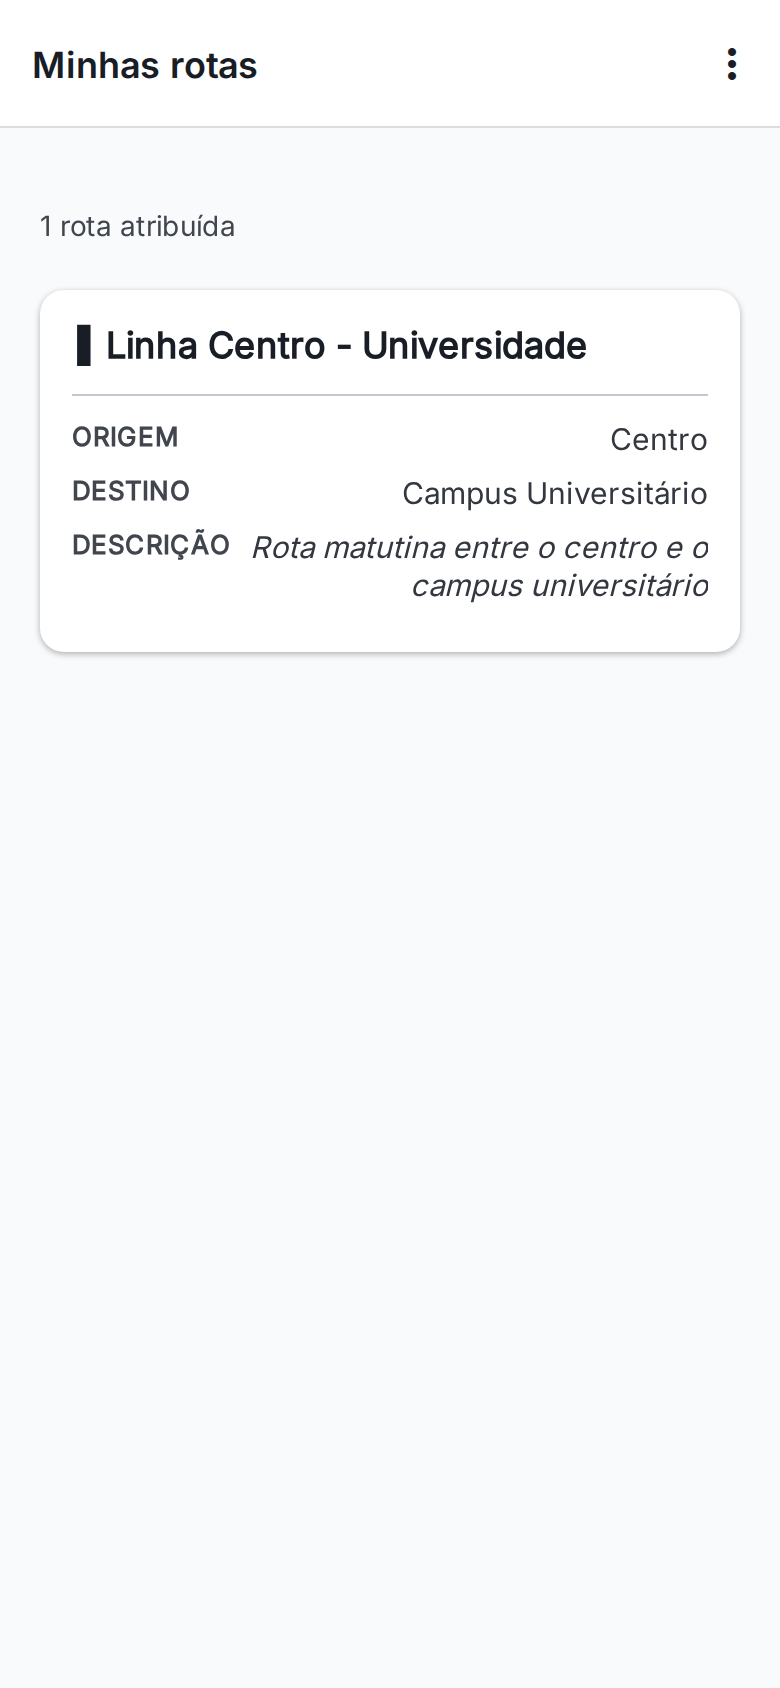
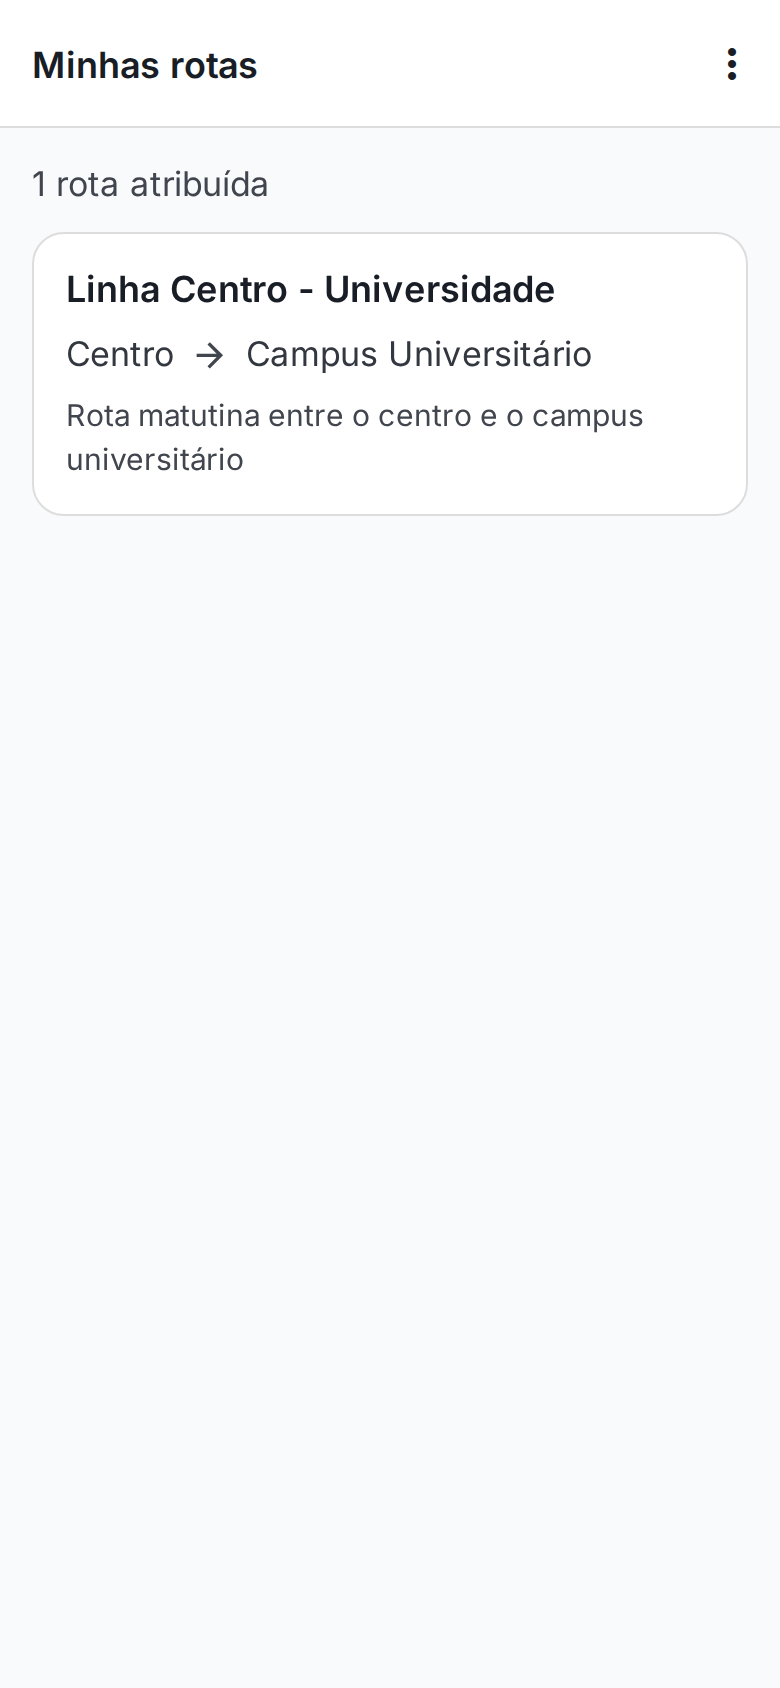
docs(ux): add the routes and admin after captures (story 6.13)
Claude-Session: https://claude.ai/code/session_01Uvx71kYjf8eZo6b4iqQirx

Changed region(s): [[0.0308, 0.0924, 0.9538, 0.3697], [0.0308, 0.1848, 0.0615, 0.3081]]

diff --git a/_bmad-output/planning-artifacts/ux-designs/ux-pureurban-2026-09-26/antes-depois.md b/_bmad-output/planning-artifacts/ux-designs/ux-pureurban-2026-09-26/antes-depois.md
@@ -16,7 +16,7 @@ Os usuários mock são `<usuário>@pureurban.com` com senha `senha123`
 EXPO_PUBLIC_USE_MOCKS=1 EXPO_PUBLIC_E2E=1 npx expo start --web --port 8081
 
 # terminal 2 — na raiz do repositório
-node mobile/scripts/capture-demo-screens.mjs            # as 26
+node mobile/scripts/capture-demo-screens.mjs            # as 27
 node mobile/scripts/capture-demo-screens.mjs light-14   # filtro por trecho do nome
 ```
 
@@ -62,7 +62,7 @@ de rodar Jest ou `tsc` (ver o gate na `plan-6-12`).
 | light-15 | QR inválido | `motorista` | <img src="audit/light-15-scan-qr-invalido.png" width="180"> | <img src="after/light-15-scan-qr-invalido.png" width="180"> | Ícone desenhado em vez de caractere; tipo grande. |
 | light-16 | Mesmo QR lido de novo | `motorista` | <img src="audit/light-16-scan-segundo-mesmo-aluno.png" width="180"> | <img src="after/light-16-scan-segundo-mesmo-aluno.png" width="180"> | Leitura repetida descartada: ocioso, como no antes. HUD mostra 1/3. |
 | light-17 | Lista após o check-in | `motorista` | <img src="audit/light-17-student-list-apos-checkin.png" width="180"> | <img src="after/light-17-student-list-apos-checkin.png" width="180"> | Barra de progresso preenchida; hora do embarque na linha. |
-| light-18 | Minhas rotas (sem entrada no app) | `motorista` | <img src="audit/light-18-routes.png" width="180"> | <img src="after/light-18-routes.png" width="180"> | Só fundo e header mudaram: o restyle é da 6.13 (P2, backlog). CAIXA-ALTA, itálico e o glifo antes do nome continuam. |
+| light-18 | Minhas rotas (sem entrada no app) | `motorista` | <img src="audit/light-18-routes.png" width="180"> | <img src="after/light-18-routes.png" width="180"> | Restyle da 6.13: RouteCard com nome sem glifo, "Centro → Campus Universitário" com ícone e descrição sem itálico; sem rótulos em CAIXA-ALTA. Continua sem entrada no app (D-UX-6 recusada). |
 | light-19 | Ida encerrada pelo ConfirmDialog | `motorista` | <img src="audit/light-19-trip-encerrada-ida.png" width="180"> | <img src="after/light-19-trip-encerrada-ida.png" width="180"> | O encerramento agora passa pelo ConfirmDialog (D-UX-7); o mock devolve outra viagem ativa, como no antes. |
 | light-20 | Viagem com turma vazia | `motorista-turma-vazia` | <img src="audit/light-20-trip-turma-vazia.png" width="180"> | <img src="after/light-20-trip-turma-vazia.png" width="180"> | Contador oculto, "Nenhum aluno nesta rota". |
 | light-21 | Lista vazia | `motorista-turma-vazia` | <img src="audit/light-21-student-list-vazia.png" width="180"> | <img src="after/light-21-student-list-vazia.png" width="180"> | StateView vazio. O cabeçalho ainda mostra "0/0" (desvio aceito na 6.7; o `EXPERIENCE.md` pedia o contador oculto). |
@@ -75,3 +75,4 @@ de rodar Jest ou `tsc` (ver o gate na `plan-6-12`).
 | light-33 | Dialog "Não vou voltar" | `aluno` | <img src="audit/light-33-dialog-nao-vou-voltar.png" width="180"> | <img src="after/light-33-dialog-nao-vou-voltar.png" width="180"> | "Avisar motorista" contido e "Voltar" discreto. |
 | light-34 | Após confirmar a ausência | `aluno` | <img src="audit/light-34-ausencia-registrada.png" width="180"> | <img src="after/light-34-ausencia-registrada.png" width="180"> | Falha no mock nos dois (sem o endpoint de ausência): Snackbar de erro. |
 | light-35 | QR de aluno sem rota | `aluno-sem-rota` | <img src="audit/light-35-qr-sem-rota.png" width="180"> | <img src="after/light-35-qr-sem-rota.png" width="180"> | "Nenhuma rota vinculada" como linha discreta na faixa. |
+| light-40 | Painel admin | `admin` | <img src="audit/light-40-admin.png" width="180"> | <img src="after/light-40-admin.png" width="180"> | Faixa de marca com o wordmark e StateView "Em breve" com "Sair" (6.13). O "antes" foi capturado na 6.13, antes do redesign — o admin não tinha usuário mock na auditoria. |
